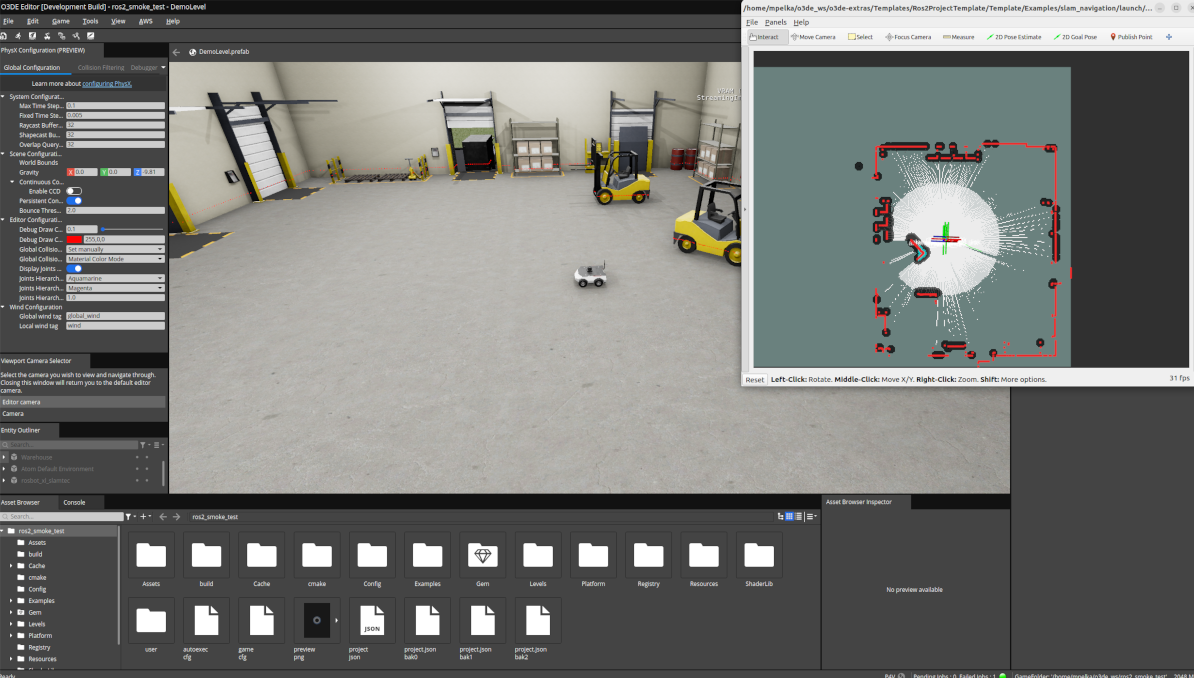
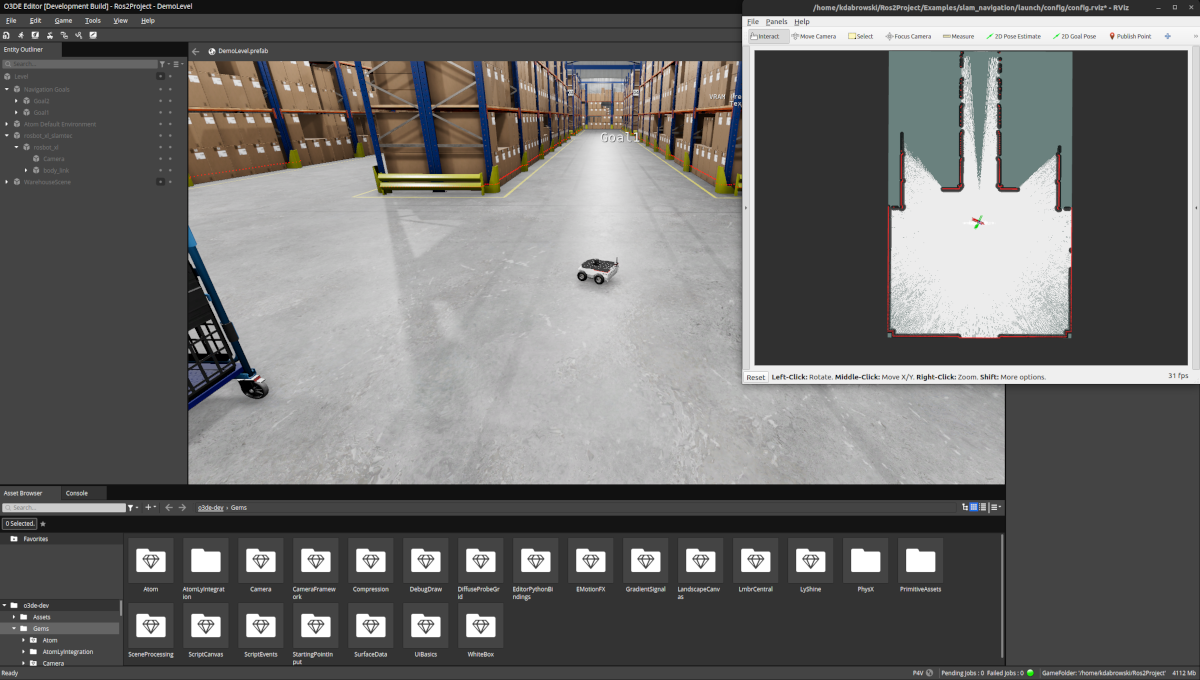
Update Ros2ProjectTemplate screenshots and README

diff --git a/Templates/Ros2ProjectTemplate/README.md b/Templates/Ros2ProjectTemplate/README.md
@@ -6,7 +6,7 @@ It is designed to help you quickly start simulating robots in Open 3D Engine (O3
 This template has the following characteristics:
 - It is the simplest and using the least resources among templates.
 - Comes with Husarion ROSBot XL model, equipped with lidar and a differential drive.
-- The interior scene does not look photorealistic but is quite simple.
+- The warehouse assets used in the template are modular and well-suited for reconfiguration to match a custom warehouse.
 
 An example ROS 2 navigation stack launch file is bundled with the template.
 
